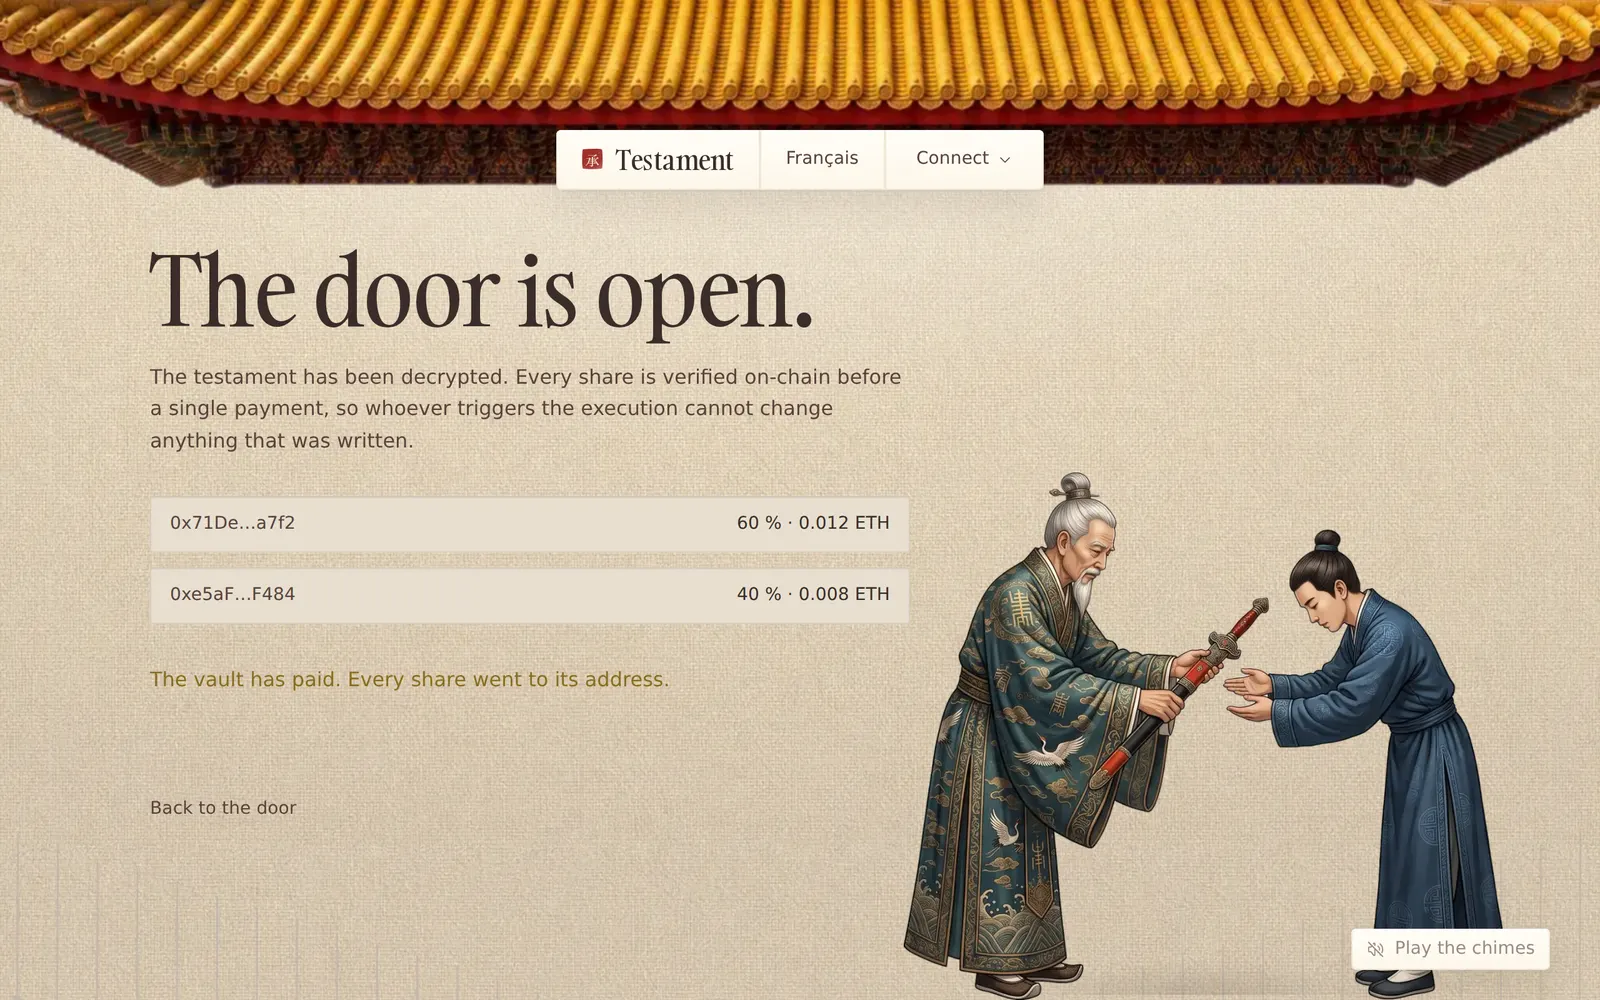
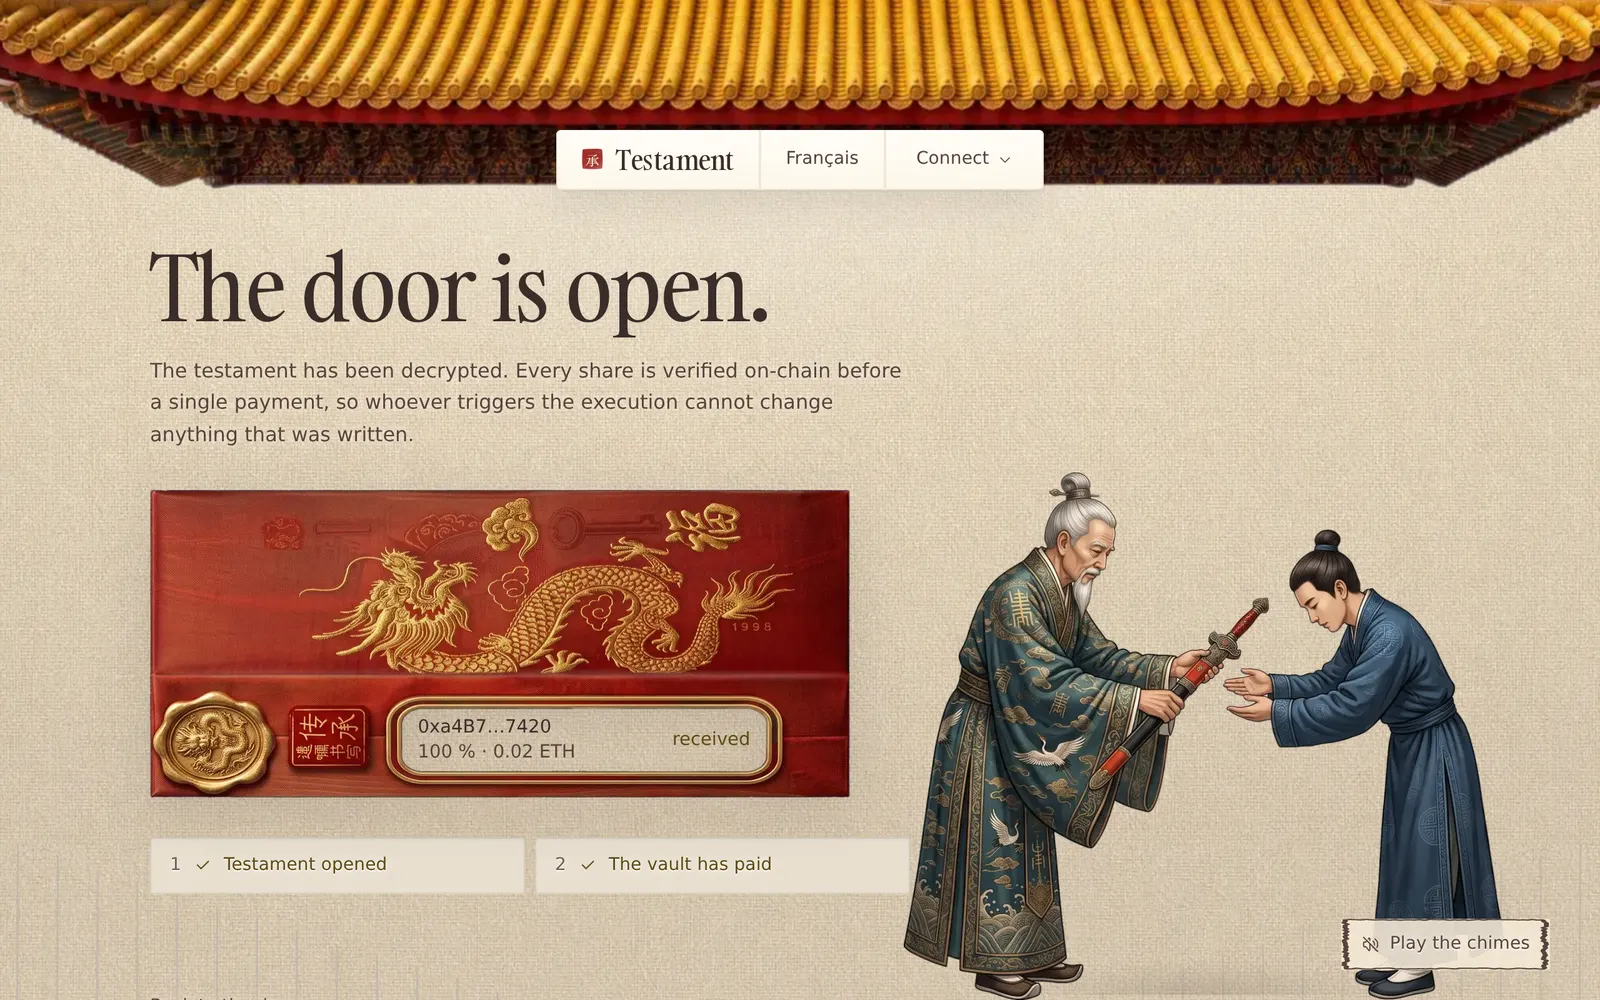
polish(web): the plaque, the caption and the chimes learn to share a phone screen

Changed region(s): [[0.0938, 0.248, 0.5938, 0.899], [0.8125, 0.899, 0.9688, 0.992]]

diff --git a/packages/web/scripts/about-shots.ts b/packages/web/scripts/about-shots.ts
@@ -22,7 +22,9 @@ const OUTPUT_DIRECTORY = path.join(import.meta.dirname, "..", "public", "about")
 
 /** The demo testaments photographed: the living one and the executed one. */
 const CLOSED_TESTAMENT_ID = 3;
-const OPEN_TESTAMENT_ID = 1;
+// Will 5: the first testament sealed, released and fully paid through the app itself.
+// Will 1, the previous subject, has since been revoked and photographs as a walled-up door.
+const OPEN_TESTAMENT_ID = 5;
 
 /** The test owner's address, so the heartbeat state has a testament to show. */
 const OWNER_ADDRESS = "0x1F7481b60669d09404cf2b2493Cc6D7FE3155b8F";
@@ -186,19 +188,27 @@ async function main() {
     await context.close();
   }
 
-  // ---- 5 and 6. The door, closed then open. No wallet: the door needs none to read. ----
-  if (isRequested("doors")) {
+  // ---- 5 and 6. The door, closed then open, as separate sections: each depends on a
+  // live will being in its state, and on most days only one of the two exists to shoot. ----
+  if (isRequested("door-closed")) {
     const context = await browser.newContext({
       viewport: { width: 1280, height: 800 },
       deviceScaleFactor: 2,
     });
     const page = await context.newPage();
-
     await page.goto(`${BASE_URL}/porte?id=${CLOSED_TESTAMENT_ID}`, { waitUntil: "networkidle" });
     await page.getByText("The door is closed.").waitFor({ timeout: 20000 });
     await settle(page);
     await capture(page, "step-door-closed.webp");
+    await context.close();
+  }
 
+  if (isRequested("door-open")) {
+    const context = await browser.newContext({
+      viewport: { width: 1280, height: 800 },
+      deviceScaleFactor: 2,
+    });
+    const page = await context.newPage();
     await page.goto(`${BASE_URL}/porte?id=${OPEN_TESTAMENT_ID}`, { waitUntil: "networkidle" });
     await page.getByText("The vault has paid").waitFor({ timeout: 30000 });
     await settle(page, 900);

diff --git a/packages/web/src/components/scene/SoundProvider.tsx b/packages/web/src/components/scene/SoundProvider.tsx
@@ -95,13 +95,20 @@ export function SoundToggle() {
   const { isEnabled, toggle } = useSound();
   const { copy } = useTranslation();
 
+  const label = isEnabled ? copy.sound.disable : copy.sound.enable;
+
   return (
     <button
       type="button"
       onClick={toggle}
       aria-pressed={isEnabled}
-      className="type-small flex items-center gap-2 px-4 py-2.5 text-ink-muted transition-all duration-(--dur-small) ease-(--ease-standard) hover:-translate-y-0.5 hover:text-ink"
+      aria-label={label}
+      className="type-small flex items-center gap-2 px-3 py-2.5 text-ink-muted transition-all duration-(--dur-small) ease-(--ease-standard) hover:-translate-y-0.5 hover:text-ink sm:px-4"
       style={{
+        // A wash of the field inside the frame: the toggle floats over whatever a page
+        // ends with (the door's illustration included), and frame lines alone left the
+        // label fighting the art beneath it.
+        backgroundColor: "rgba(243, 232, 213, 0.9)",
         backgroundImage: 'url("/ui/ink-frame.svg")',
         backgroundSize: "100% 100%",
         backgroundRepeat: "no-repeat",
@@ -112,7 +119,9 @@ export function SoundToggle() {
         <Volume size={15} strokeWidth={1.5} data-icon="a" />
         <VolumeOff size={15} strokeWidth={1.5} data-icon="b" />
       </span>
-      {isEnabled ? copy.sound.disable : copy.sound.enable}
+      {/* The icon is the whole control on a phone, where the spelled label overlapped the
+          form it floats over; `aria-label` above keeps its name for everyone. */}
+      <span className="max-sm:hidden">{label}</span>
     </button>
   );
 }

diff --git a/packages/web/scripts/verify-ui.ts b/packages/web/scripts/verify-ui.ts
@@ -320,14 +320,17 @@ check("all six step photographs are mounted", stepImageCount === 6, `${stepImage
 console.log("\nlanguage");
 await page.goto(`${BASE_URL}/`, { waitUntil: "networkidle" });
 await page.waitForTimeout(900);
+// The toggle's accessible name is its aria-label (what it does), not the shown word:
+// the visible text collapses to a two-letter code on phones, and a name that changes
+// with the viewport is exactly what an accessible name must not do.
 const englishHeadline = await page.locator("h1").first().innerText();
-await page.getByRole("button", { name: "Français" }).click();
+await page.getByRole("button", { name: "Switch to French" }).click();
 await page.waitForTimeout(400);
 const frenchHeadline = await page.locator("h1").first().innerText();
 const htmlLang = await page.evaluate(() => document.documentElement.lang);
 check("headline switches language", englishHeadline !== frenchHeadline, frenchHeadline.replace(/\n/g, " ").slice(0, 40));
 check("html lang follows the switch", htmlLang === "fr", `lang="${htmlLang}"`);
-await page.getByRole("button", { name: "English" }).click();
+await page.getByRole("button", { name: "Passer en anglais" }).click();
 await page.waitForTimeout(300);
 check("switches back to English", (await page.locator("h1").first().innerText()) === englishHeadline, "round trip");
 

diff --git a/packages/web/src/components/i18n/LanguageProvider.tsx b/packages/web/src/components/i18n/LanguageProvider.tsx
@@ -82,7 +82,8 @@ export function LanguageToggle() {
       type="button"
       onClick={toggleLanguage}
       title={copy.switchTo}
-      className="type-small relative overflow-hidden text-ink-muted transition-colors duration-(--dur-small) ease-(--ease-standard) hover:text-ink"
+      aria-label={copy.switchTo}
+      className="type-small relative overflow-hidden whitespace-nowrap text-ink-muted transition-colors duration-(--dur-small) ease-(--ease-standard) hover:text-ink"
     >
       {/* The text-swap recipe: the leaving name slips up 4px as the next slips in. */}
       <AnimatePresence mode="popLayout" initial={false}>
@@ -94,7 +95,11 @@ export function LanguageToggle() {
           exit={{ opacity: 0, y: -4, filter: "blur(2px)" }}
           transition={{ duration: 0.15, ease: [0.22, 1, 0.36, 1] }}
         >
-          {copy.otherLanguageName}
+          {/* The full name where the plaque has room; the code where it does not. On a
+              390px screen the spelled-out name is what pushed the plaque past its edge
+              and clipped mid-glyph, which read as a typo rather than a control. */}
+          <span className="max-sm:hidden">{copy.otherLanguageName}</span>
+          <span className="sm:hidden">{copy.otherLanguageCode}</span>
         </motion.span>
       </AnimatePresence>
     </button>

diff --git a/packages/web/src/components/nav/DoorwayNav.tsx b/packages/web/src/components/nav/DoorwayNav.tsx
@@ -22,13 +22,16 @@ export function DoorwayNav() {
       className="pointer-events-none fixed inset-x-0 top-[max(5rem,13vh)] flex justify-center px-6"
       style={{ zIndex: "var(--layer-nav)" }}
     >
-      <nav className="anim-plaque panel pointer-events-auto flex items-center gap-4 px-4 py-2.5 sm:gap-5 sm:px-5">
+      <nav className="anim-plaque panel pointer-events-auto flex items-center gap-3 px-3.5 py-2.5 sm:gap-5 sm:px-5">
         <Link
           href="/"
           className="flex items-center gap-2.5 transition-opacity duration-(--dur-small) ease-(--ease-standard) hover:opacity-80"
         >
           <Seal size={18} />
-          <span className="type-title leading-none">Testament</span>
+          {/* On a phone the plaque holds the mark alone: with the name spelled out beside
+              the language and a connected address, the board outgrew a 390px screen and
+              its cells clipped mid-word. The seal is the signature; it carries the name. */}
+          <span className="type-title leading-none max-sm:hidden">Testament</span>
         </Link>
         {/*
           A cut in the plaque, not a drawn line: the divider is the field showing through,

diff --git a/packages/web/src/components/testament/WriteScreen.tsx b/packages/web/src/components/testament/WriteScreen.tsx
@@ -22,7 +22,11 @@ export function WriteScreen() {
       behind it. The room the seal needs at the bottom of the fold is bought by giving the lede
       a wider measure so it sets in two lines instead of three, not by moving the title up.
     */
-    <div className="mx-auto w-full max-w-[1120px] px-6 pb-8 pt-[max(7.75rem,18vh)] sm:px-10">
+    /*
+      The larger phone padding at the bottom lets the sheet's last controls scroll clear
+      of the fixed sound toggle, which otherwise parked itself over the second consent.
+    */
+    <div className="mx-auto w-full max-w-[1120px] px-6 pb-24 pt-[max(7.75rem,18vh)] sm:px-10 sm:pb-8">
       <div className="mx-auto mb-3 flex max-w-[56rem] flex-col items-center gap-2 text-center">
         <h1 className="anim-rise anim-d-1 type-display-lg">{copy.write.title}</h1>
         <p className="anim-rise anim-d-2 type-small max-w-[86ch] text-ink-muted">{copy.write.lede}</p>

diff --git a/packages/web/src/components/scene/WordDevice.tsx b/packages/web/src/components/scene/WordDevice.tsx
@@ -29,7 +29,10 @@ export function WordDevice() {
       >
         传承
       </p>
-      <div className="pointer-events-auto text-right">
+      {/* The caption needs a margin the phone does not have: at 390px it landed inside the
+          headline's column and the two texts read as one broken sentence. The hanzi stay,
+          a watermark behind everything; the caption returns where there is a wall for it. */}
+      <div className="pointer-events-auto text-right max-sm:hidden">
         <p className="type-small text-ink" lang="zh-Latn">
           {copy.word.pinyin}
         </p>

diff --git a/packages/web/src/components/about/AboutScreen.tsx b/packages/web/src/components/about/AboutScreen.tsx
@@ -46,7 +46,7 @@ export function AboutScreen() {
 
   return (
     <div
-      className={`${tiktokSans.className} mx-auto w-full max-w-[1120px] px-6 pb-16 pt-[max(7.75rem,19vh)] sm:px-10`}
+      className={`${tiktokSans.className} mx-auto w-full max-w-[1120px] px-6 pb-24 pt-[max(7.75rem,19vh)] sm:px-10 sm:pb-16`}
     >
       <div className="mx-auto mb-4 flex max-w-[44rem] flex-col items-center gap-3 text-center">
         <h1 className="anim-rise anim-d-1 type-display-lg">{copy.about.title}</h1>

diff --git a/packages/web/src/lib/i18n.ts b/packages/web/src/lib/i18n.ts
@@ -17,6 +17,7 @@ export const LANGUAGES: readonly Language[] = ["fr", "en"];
 const french = {
   languageName: "Français",
   otherLanguageName: "English",
+  otherLanguageCode: "EN",
   switchTo: "Passer en anglais",
 
   nav: {
@@ -312,6 +313,7 @@ const french = {
 const english: typeof french = {
   languageName: "English",
   otherLanguageName: "Français",
+  otherLanguageCode: "FR",
   switchTo: "Switch to French",
 
   nav: {

diff --git a/packages/web/src/app/globals.css b/packages/web/src/app/globals.css
@@ -378,7 +378,7 @@ body {
   background: linear-gradient(
     105deg,
     transparent 38%,
-    rgba(255, 253, 247, 0.42) 50%,
+    rgba(255, 253, 247, 0.22) 50%,
     transparent 62%
   );
   opacity: 0;
@@ -471,7 +471,7 @@ body {
   background: linear-gradient(
     105deg,
     transparent 38%,
-    rgba(255, 253, 247, 0.42) 50%,
+    rgba(255, 253, 247, 0.22) 50%,
     transparent 62%
   );
   opacity: 0;

diff --git a/docs/UI_DESIGN_SYSTEM.md b/docs/UI_DESIGN_SYSTEM.md
@@ -153,7 +153,9 @@ Both fail states are the tells this pair is tuned between.
 
 **Wordmark:** "Testament" set in Gambarino, sentence case, normal tracking, beside the
 seal mark at 18px. Not letterspaced caps: an all-caps serif tracked out is the stock
-luxury logo move and reads as a template.
+luxury logo move and reads as a template. On a phone the plaque carries the seal alone and
+the language toggle its two-letter code: spelled out, the board outgrew a 390px screen and
+clipped its own cells mid-word.
 
 ---
 
